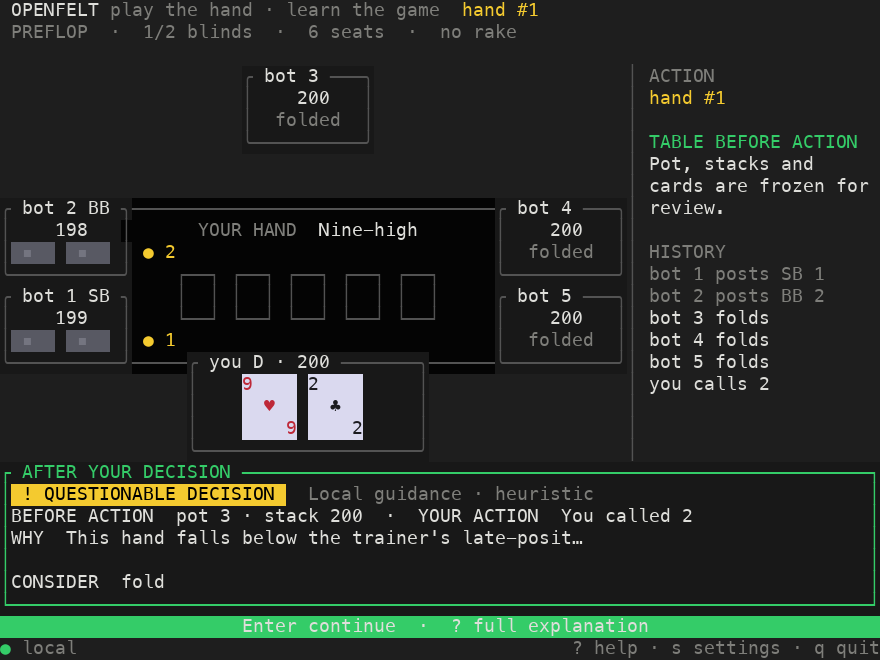
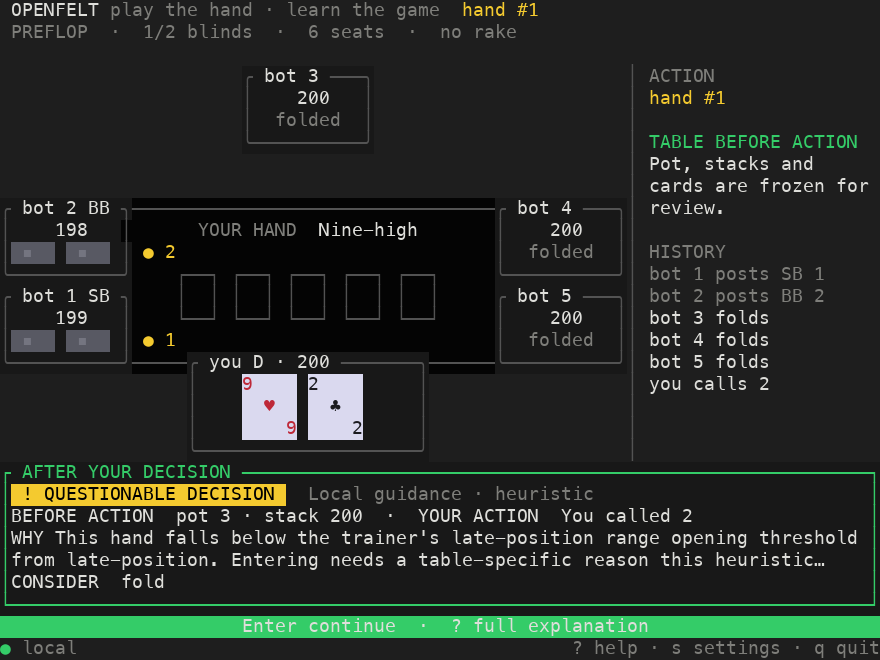
Keep coaching reasoning consistent

Changed region(s): [[0.0307, 0.7879, 0.9818, 0.8788]]

diff --git a/src/trainer/tui.rs b/src/trainer/tui.rs
@@ -560,8 +560,7 @@ pub fn run(
         }
         if code == KeyCode::Char('?') {
             if ui.session.coaching.is_some() {
-                ui.deep = !ui.deep;
-                ui.deep_scroll = 0;
+                toggle_coaching_details(&mut ui);
             } else {
                 ui.help = !ui.help;
             }
@@ -1144,17 +1143,17 @@ fn draw(frame: &mut ratatui::Frame, ui: &Ui) {
         let explanation = if ui.session.settings.coaching == CoachingMode::Off {
             "Coaching off. Your decision is accepted.".into()
         } else if let Some(f) = &ui.feedback {
-            if ui.deep {
-                format!("{}\n{}", f.concept, humanize_coaching(&f.explanation))
-            } else {
-                collapsed_coaching_explanation(f)
-            }
+            coaching_explanation(f)
         } else {
             "Coaching unavailable".into()
         };
         let details = if ui.deep {
             format!(
-                "\n{} · {}\nLegal call: {} chips. Contestable pot after call: {} chips.\n{}",
+                "\nTOPIC  {}\n{} · {}\nLegal call: {} chips. Contestable pot after call: {} chips.\n{}",
+                ui.feedback
+                    .as_ref()
+                    .map(|feedback| normalize_paragraph(&feedback.concept))
+                    .unwrap_or_else(|| "General decision review".into()),
                 d.facts.position,
                 d.facts.hand_classification,
                 d.facts.call_cost,
@@ -1398,44 +1397,47 @@ pub fn structured_coaching_copy(
     decision: &super::facts::Decision,
     explanation: &str,
     alternative: Option<&str>,
-    deep: bool,
+    _deep: bool,
 ) -> String {
     format!(
-        "BEFORE ACTION  pot {} · stack {}  ·  YOUR ACTION  {}\nWHY  {}\nCONSIDER  {}{}",
+        "BEFORE ACTION  pot {} · stack {}  ·  YOUR ACTION  {}\nWHY  {}\nCONSIDER  {}",
         decision.observation.pot,
         decision.observation.own().stack,
         accepted_action_copy(&decision.accepted_action),
         explanation,
         alternative.unwrap_or("Review the price, position, and remaining stacks."),
-        if deep {
-            "\nFull reasoning shown above."
-        } else {
-            ""
-        },
     )
 }
 
 pub fn humanize_coaching(copy: &str) -> String {
-    copy.replace("LateOpen", "late-position range")
-        .replace("Late", "late-position")
-        .replace("Premium", "premium range")
-        .replace("Strong", "strong range")
-        .replace("Marginal", "marginal range")
-        .replace("Fold", "folding range")
+    normalize_paragraph(
+        &copy
+            .replace("LateOpen", "late-position range")
+            .replace("Late", "late-position")
+            .replace("Premium", "premium range")
+            .replace("Strong", "strong range")
+            .replace("Marginal", "marginal range")
+            .replace("Fold", "folding range"),
+    )
 }
 
+pub fn coaching_explanation(feedback: &Feedback) -> String {
+    humanize_coaching(&feedback.explanation)
+}
+
+/// Compatibility alias for render-preview callers. Compact clipping is owned
+/// by the renderer so this returns the same full explanation as details.
 pub fn collapsed_coaching_explanation(feedback: &Feedback) -> String {
-    excerpt(&humanize_coaching(&feedback.explanation), 46)
+    coaching_explanation(feedback)
 }
 
-fn excerpt(copy: &str, limit: usize) -> String {
-    let mut chars = copy.chars();
-    let excerpt = chars.by_ref().take(limit).collect::<String>();
-    if chars.next().is_some() {
-        format!("{}…", excerpt.trim_end())
-    } else {
-        excerpt
-    }
+fn normalize_paragraph(copy: &str) -> String {
+    copy.split_whitespace().collect::<Vec<_>>().join(" ")
+}
+
+fn toggle_coaching_details(ui: &mut Ui) {
+    ui.deep = !ui.deep;
+    ui.deep_scroll = 0;
 }
 
 #[cfg(test)]
@@ -1743,6 +1745,58 @@ mod tests {
         assert_eq!(ui.deep_scroll, scrolled - 1);
         assert!(scroll_deep(&mut ui.deep_scroll, KeyCode::PageUp));
         assert_eq!(ui.deep_scroll, scrolled - 9);
+    }
+
+    #[test]
+    fn compact_and_expanded_coaching_share_reasoning_without_side_effects() {
+        let mut ui = ui(6);
+        while ui.session.view().to_act != Some(hero()) {
+            ui.session.step_bot().unwrap();
+        }
+        let action = ui.session.observation(hero()).unwrap().check_call();
+        let decision = ui.session.submit(action).unwrap();
+        let mut feedback = local_feedback(decision);
+        feedback.explanation = format!(
+            "First line explains the price.\n\n{}REASONING_TAIL",
+            "Second line preserves the positional reason and adds enough context. ".repeat(4)
+        );
+        feedback.alternative_action =
+            Some("ALTERNATIVE_SENTINEL: fold and preserve the stack.".into());
+        let expected = coaching_explanation(&feedback);
+        assert_eq!(expected, collapsed_coaching_explanation(&feedback));
+        assert!(!expected.contains('\n'));
+        assert_eq!(
+            structured_coaching_copy(
+                decision,
+                &expected,
+                feedback.alternative_action.as_deref(),
+                false,
+            ),
+            structured_coaching_copy(
+                decision,
+                &expected,
+                feedback.alternative_action.as_deref(),
+                true,
+            )
+        );
+        ui.feedback = Some(feedback);
+
+        let compact = rendered(&ui, 80, 30);
+        assert!(compact.contains("WHY"));
+        assert!(compact.contains('…'));
+        assert!(compact.contains("CONSIDER  ALTERNATIVE_SENTINEL"));
+        assert_eq!(compact.matches("Enter continue").count(), 1);
+
+        let assessment = ui.feedback.as_ref().unwrap().assessment.clone();
+        assert!(ui.pending.is_none());
+        toggle_coaching_details(&mut ui);
+        assert!(ui.deep);
+        assert!(ui.pending.is_none());
+        assert_eq!(ui.feedback.as_ref().unwrap().assessment, assessment);
+        let expanded = rendered(&ui, 100, 36);
+        assert!(expanded.contains("TOPIC"));
+        assert!(expanded.contains("First line explains the price"));
+        assert!(!expanded.contains("Full reasoning shown above"));
     }
 
     #[test]

diff --git a/src/trainer/table_ui.rs b/src/trainer/table_ui.rs
@@ -272,9 +272,7 @@ fn render_coaching(frame: &mut Frame<'_>, state: &TableRenderState<'_>, area: Re
         fields[1],
     );
     frame.render_widget(
-        Paragraph::new(why)
-            .wrap(Wrap { trim: true })
-            .style(Style::default().fg(TEXT)),
+        Paragraph::new(wrapped_excerpt(why, fields[2].width, 2)).style(Style::default().fg(TEXT)),
         fields[2],
     );
     frame.render_widget(
@@ -292,6 +290,58 @@ fn render_coaching(frame: &mut Frame<'_>, state: &TableRenderState<'_>, area: Re
             ),
         rows[1],
     );
+}
+
+fn wrapped_excerpt(copy: &str, width: u16, max_lines: usize) -> String {
+    let width = usize::from(width).max(1);
+    let mut lines = vec![String::new()];
+    let mut truncated = false;
+    'words: for word in copy.split_whitespace() {
+        let current = lines.last_mut().expect("one line");
+        let separator = usize::from(!current.is_empty());
+        if Line::from(word).width() <= width
+            && Line::from(current.as_str()).width() + separator + Line::from(word).width() <= width
+        {
+            if separator == 1 {
+                current.push(' ');
+            }
+            current.push_str(word);
+        } else if Line::from(word).width() <= width {
+            if lines.len() == max_lines {
+                truncated = true;
+                break;
+            }
+            lines.push(word.to_string());
+        } else {
+            if !current.is_empty() {
+                if lines.len() == max_lines {
+                    truncated = true;
+                    break;
+                }
+                lines.push(String::new());
+            }
+            for character in word.chars() {
+                let current = lines.last_mut().expect("one line");
+                let cell_width = Line::from(character.to_string()).width();
+                if Line::from(current.as_str()).width() + cell_width > width {
+                    if lines.len() == max_lines {
+                        truncated = true;
+                        break 'words;
+                    }
+                    lines.push(String::new());
+                }
+                lines.last_mut().expect("one line").push(character);
+            }
+        }
+    }
+    if truncated {
+        let last = lines.last_mut().expect("one line");
+        while Line::from(last.as_str()).width() + Line::from("…").width() > width {
+            last.pop();
+        }
+        *last = format!("{}…", last.trim_end());
+    }
+    lines.join("\n")
 }
 
 /// Expanded coaching keeps the hero cards and controls visible below a wide,
@@ -1436,5 +1486,29 @@ mod tests {
         let text = rendered(&projection, Some(ReviewTone::Reconsider));
         assert!(text.contains("QUESTIONABLE DECISION"));
         assert!(text.contains("CONSIDER folding"));
+    }
+
+    #[test]
+    fn compact_why_uses_two_width_aware_lines_and_marks_overflow() {
+        let short = wrapped_excerpt("WHY one useful sentence", 40, 2);
+        assert_eq!(short, "WHY one useful sentence");
+
+        let long = wrapped_excerpt(
+            "WHY this explanation contains enough strategic context to exceed the available coaching width without consuming the alternative row",
+            32,
+            2,
+        );
+        assert_eq!(long.lines().count(), 2);
+        assert!(long.ends_with('…'));
+        assert!(long.lines().all(|line| Line::from(line).width() <= 32));
+
+        let unbroken = wrapped_excerpt(&format!("WHY {}", "x".repeat(100)), 12, 2);
+        assert_eq!(unbroken.lines().count(), 2);
+        assert!(unbroken.ends_with('…'));
+        assert!(unbroken.lines().all(|line| Line::from(line).width() <= 12));
+
+        let wide = wrapped_excerpt("WHY 手牌选择需要谨慎考虑位置和价格", 14, 2);
+        assert!(wide.ends_with('…'));
+        assert!(wide.lines().all(|line| Line::from(line).width() <= 14));
     }
 }

diff --git a/examples/review_trainer_table.rs b/examples/review_trainer_table.rs
@@ -120,13 +120,14 @@ fn main() -> Result<(), Box<dyn std::error::Error>> {
                 false,
             );
             let deep = format!(
-                "{}\nLegal call: {} chips. Contestable pot after call: {} chips.\n{}",
+                "{}\nTOPIC  {}\nLegal call: {} chips. Contestable pot after call: {} chips.\n{}",
                 structured_coaching_copy(
                     decision,
                     &explanation,
                     feedback.alternative_action.as_deref(),
                     true,
                 ),
+                feedback.concept,
                 decision.facts.call_cost,
                 decision.facts.contestable_pot_after_call,
                 decision.facts.assumptions[0],
